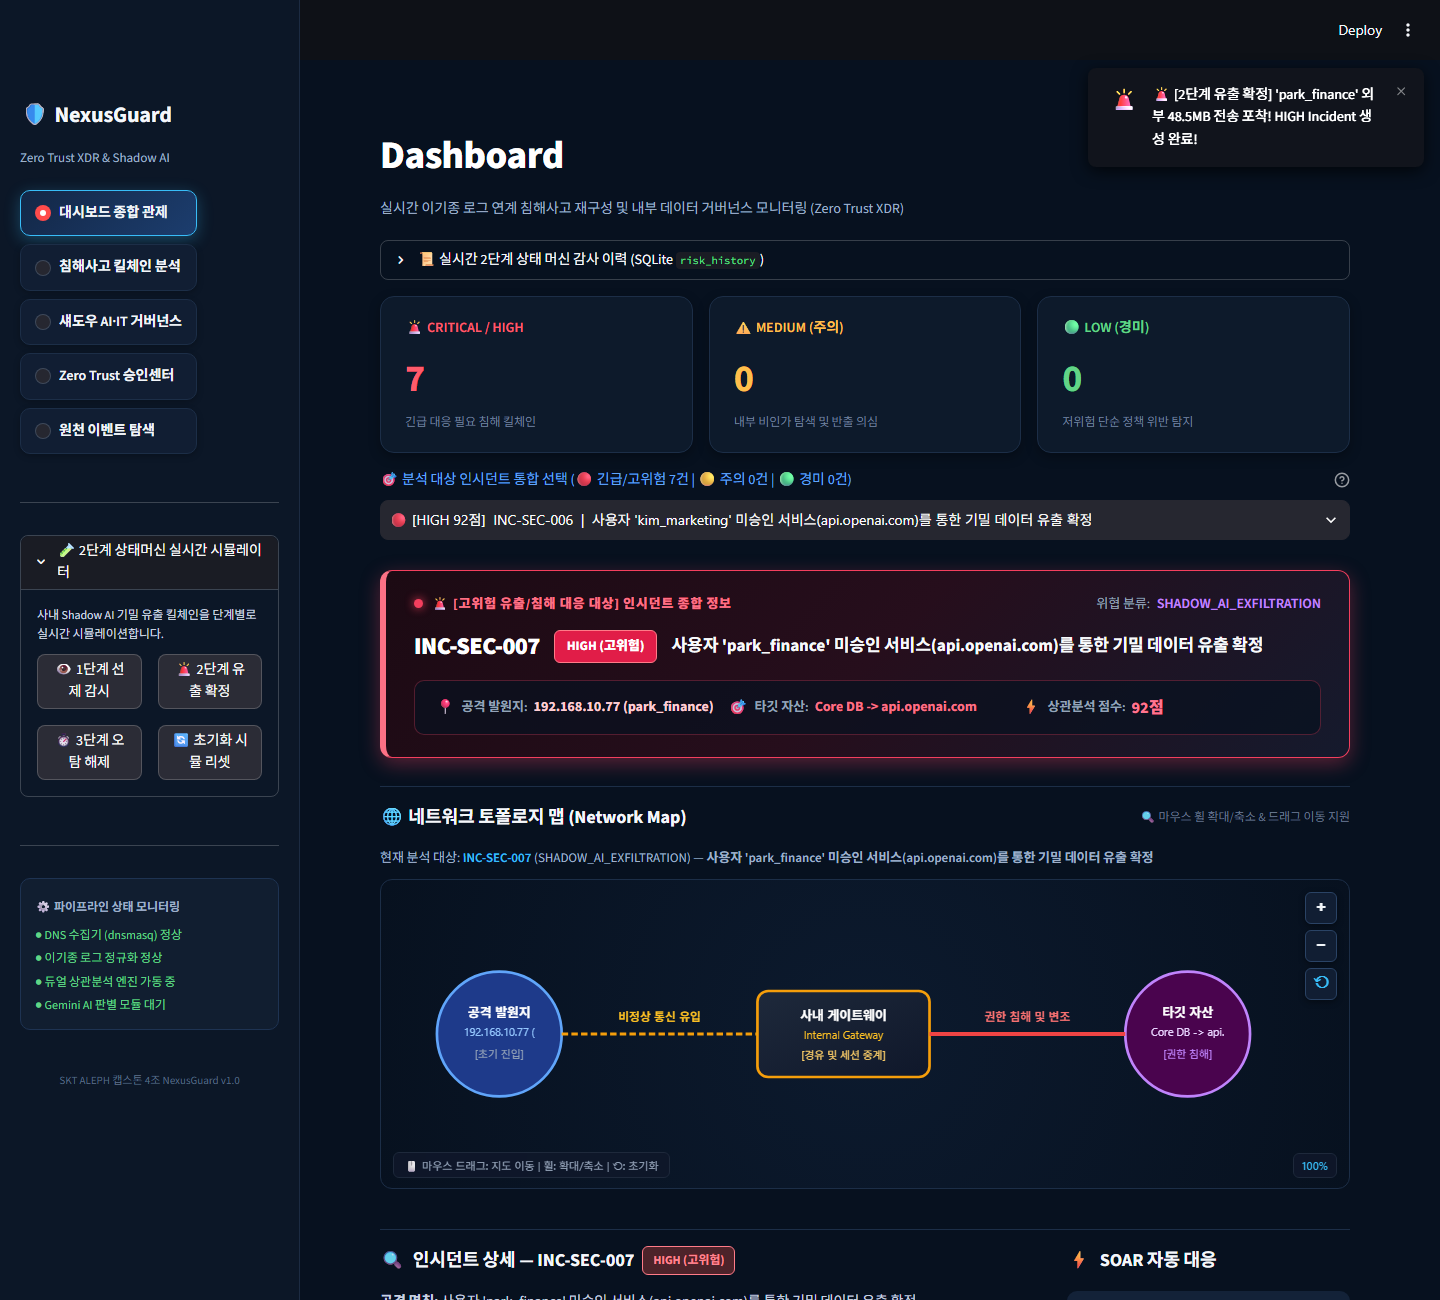
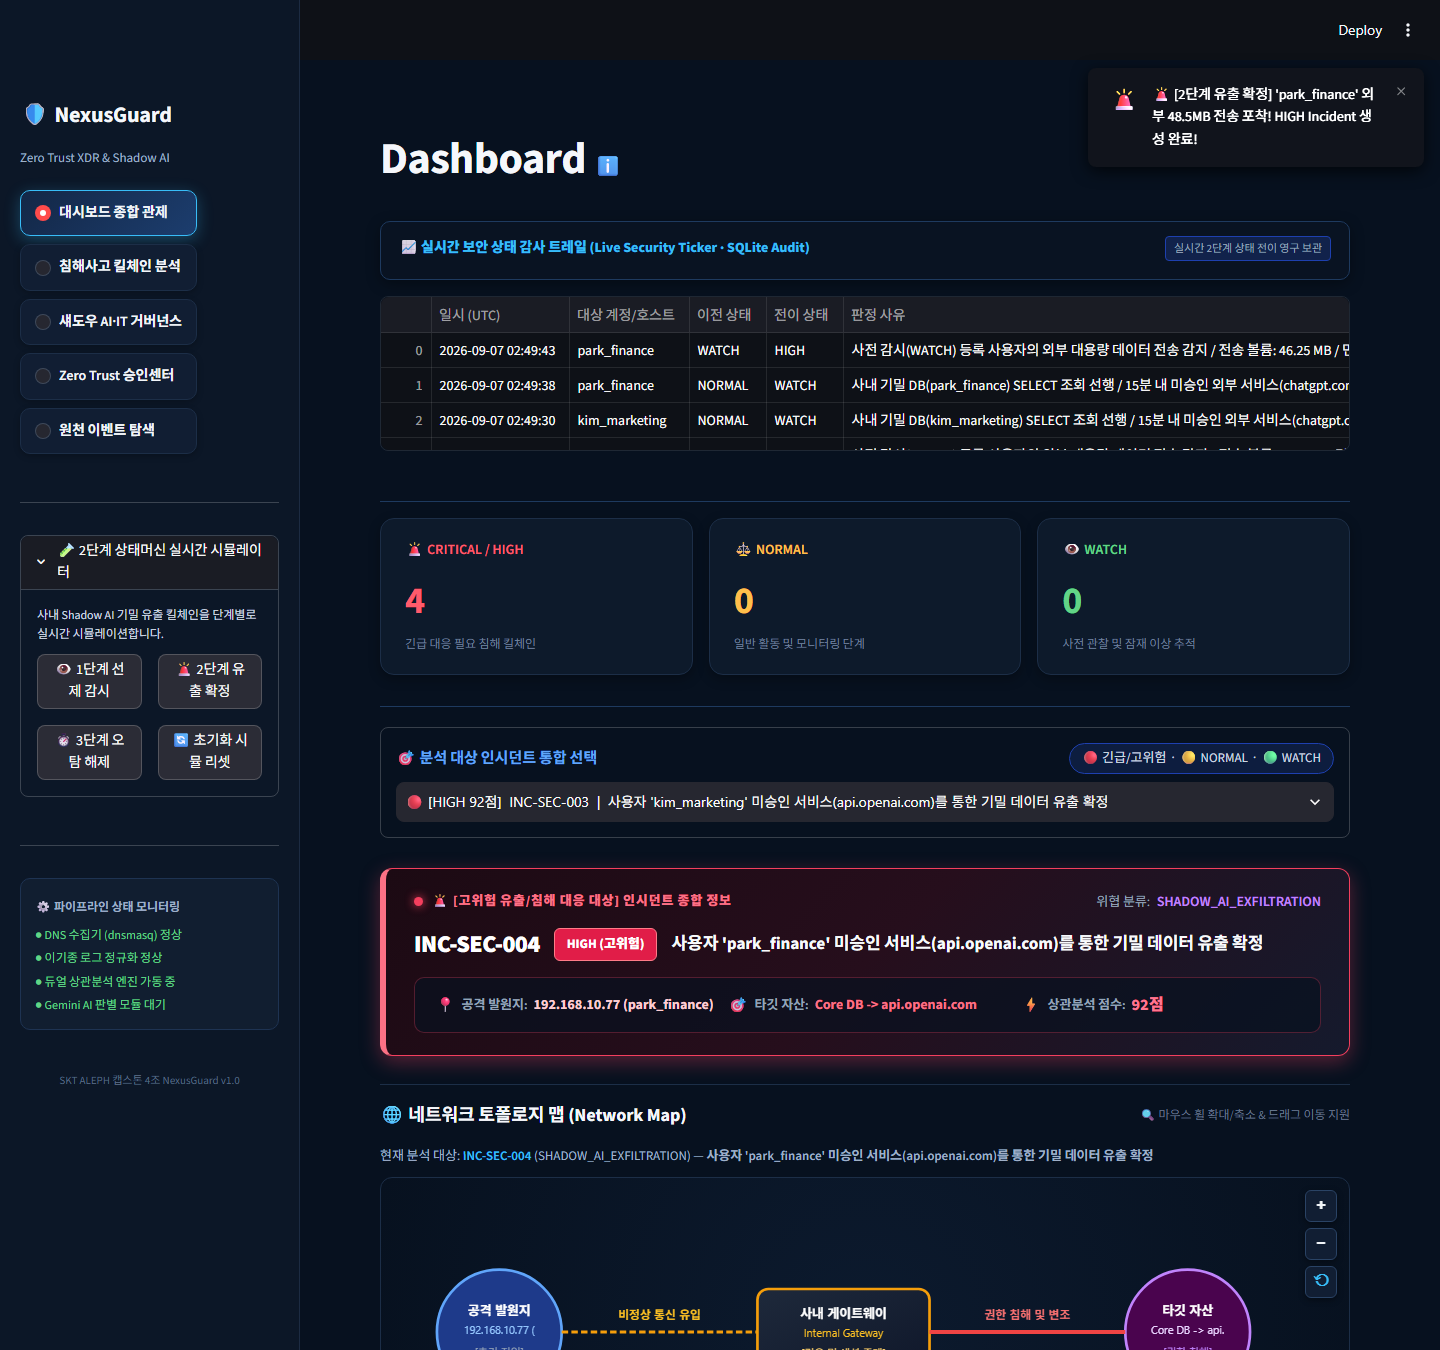
feat(ui): 대시보드 종합 관제 UI 개선 및 실시간 2단계 상태머신 감사 뷰 고도화
- 위험도 명칭 개편: LOW -> WATCH, MEDIUM -> NORMAL (KPI 카드 및 인시던트 배지 일괄 적용)
- KPI 상/하단 분계선(<hr>) 추가로 핵심 지표 영역 구분감 강화
- 통합 인시던트 선택기 단일 카드화(border=True) 및 건수 표시 제거 (색상 안내 가이드만 유지)
- 인시던트 선택 박스 세로 높이(64px) 및 가시성 확장, 불필요한 라벨 및 툴팁 잔상 제거
- Dashboard 제목에 마우스 오버 시에만 서브타이틀이 표출되는 인터랙티브 툴팁 적용
- SQLite 상태 머신 감사 이력(risk_history)을 주식창 스타일의 상시 노출 실시간 감사 트레일로 전환
- 신규 UI 기반 실시간 시뮬레이션 화면 캡처 업데이트

diff --git a/nexusguard/ui/app.py b/nexusguard/ui/app.py
@@ -218,13 +218,83 @@ st.markdown("""
         background-color: transparent !important;
         border: none !important;
     }
+    /* Dashboard 제목 호버 툴팁 */
+    .dashboard-title-box {
+        position: relative;
+        display: inline-block;
+        margin-bottom: 20px;
+        cursor: pointer;
+    }
+    .dashboard-title {
+        margin: 0;
+        font-size: 38px;
+        font-weight: 800;
+        color: #ffffff;
+        letter-spacing: -0.5px;
+        display: flex;
+        align-items: center;
+        gap: 10px;
+    }
+    .dashboard-info-icon {
+        font-size: 20px;
+        color: #64748b;
+        cursor: pointer;
+        transition: color 0.2s;
+    }
+    .dashboard-title-box:hover .dashboard-info-icon {
+        color: #38bdf8;
+    }
+    .dashboard-title-tooltip {
+        visibility: hidden;
+        opacity: 0;
+        position: absolute;
+        top: calc(100% + 6px);
+        left: 0;
+        background-color: #0c1c33;
+        color: #93c5fd;
+        font-size: 13px;
+        font-weight: 500;
+        padding: 8px 16px;
+        border-radius: 8px;
+        border: 1px solid #2563eb;
+        box-shadow: 0 10px 28px rgba(0, 0, 0, 0.8);
+        white-space: nowrap;
+        z-index: 9999;
+        transition: opacity 0.2s ease, visibility 0.2s ease;
+        pointer-events: none;
+    }
+    .dashboard-title-box:hover .dashboard-title-tooltip {
+        visibility: visible;
+        opacity: 1;
+    }
+
+    /* 통합 인시던트 선택기 단일 박스 컨테이너 */
+    div[data-testid="stVerticalBlockBorderWrapper"] {
+        background-color: #0c182a !important;
+        border: 1.5px solid #1c324e !important;
+        border-radius: 12px !important;
+        padding: 14px 20px 16px 20px !important;
+        box-shadow: 0 4px 16px rgba(0, 0, 0, 0.35) !important;
+        margin-bottom: 16px !important;
+    }
+    /* 통합 선택 박스 내부 불필요한 라벨 및 도움말 아이콘 완전 은닉 */
+    div[data-testid="stSelectbox"] label,
+    div[data-testid="stSelectbox"] [data-testid="stWidgetLabel"] {
+        display: none !important;
+        height: 0 !important;
+        margin: 0 !important;
+        padding: 0 !important;
+    }
+
+    /* 🌟 인시던트 선택 박스 세로 높이 확대 및 시인성 향상 */
     div[data-testid="stSelectbox"] div[data-baseweb="select"] > div {
-        min-height: 54px !important;
+        min-height: 64px !important;
+        height: 64px !important;
         background-color: #0b1a2e !important;
         border: 2px solid #3b82f6 !important;
         border-radius: 12px !important;
         box-shadow: 0 4px 16px rgba(37, 99, 235, 0.25) !important;
-        padding: 4px 14px !important;
+        padding: 6px 18px !important;
         display: flex !important;
         align-items: center !important;
         box-sizing: border-box !important;
@@ -239,8 +309,8 @@ st.markdown("""
     div[data-testid="stSelectbox"] div[data-baseweb="select"] [data-testid="stMarkdownContainer"] p,
     div[data-testid="stSelectbox"] div[data-baseweb="select"] span {
         color: #ffffff !important;
-        font-size: 15px !important;
-        font-weight: 600 !important;
+        font-size: 16px !important;
+        font-weight: 700 !important;
         line-height: 1.5 !important;
     }
     /* 우측 토글 화살표(Chevron): 박스 우측 내부에 완벽 고정 */
@@ -1268,9 +1338,13 @@ def render_interactive_map(svg_markup: str):
 
 if menu == "대시보드 종합 관제":
     st.markdown("""
-    <div style="margin-bottom: 20px;">
-        <h1 style="margin:0; font-size: 39px; font-weight: 800; color:#ffffff; letter-spacing: -0.5px;">Dashboard</h1>
-        <span style="color: #9fb0c8; font-size: 14px;">실시간 이기종 로그 연계 침해사고 재구성 및 내부 데이터 거버넌스 모니터링 (Zero Trust XDR)</span>
+    <div class="dashboard-title-box">
+        <h1 class="dashboard-title">
+            Dashboard <span class="dashboard-info-icon" title="마우스를 올리면 시스템 설명이 표시됩니다">ℹ</span>
+        </h1>
+        <div class="dashboard-title-tooltip">
+            🛡 실시간 이기종 로그 연계 침해사고 재구성 및 내부 데이터 거버넌스 모니터링 (Zero Trust XDR)
+        </div>
     </div>
     """, unsafe_allow_html=True)
 
@@ -1292,7 +1366,7 @@ if menu == "대시보드 종합 관제":
     )
     sorted_incident_ids = [inc.incident_id for inc in sorted_incidents]
 
-    # 🌟 [단일 통합 드롭다운 포맷터] 위험도별 색상 및 기호로 시인성 극대화
+    # 🌟 [단일 통합 드롭다운 포맷터] 위험도별 색상 및 기호로 시인성 극대화 (NORMAL / WATCH 적용)
     def format_unified_incident(inc_id: str) -> str:
         inc = ctx.correlation_engine.get_incident(inc_id)
         if not inc:
@@ -1302,9 +1376,9 @@ if menu == "대시보드 종합 관제":
         elif inc.severity == Severity.HIGH:
             badge = f"🔴 [HIGH {inc.score}점]"
         elif inc.severity == Severity.MEDIUM:
-            badge = f"🟡 [MEDIUM {inc.score}점]"
+            badge = f"🟡 [NORMAL {inc.score}점]"
         else:
-            badge = f"🟢 [LOW {inc.score}점]"
+            badge = f"🟢 [WATCH {inc.score}점]"
         return f"{badge}  {inc.incident_id}  |  {inc.title}"
 
     cur_idx = sorted_incident_ids.index(st.session_state.selected_incident_id) if st.session_state.selected_incident_id in sorted_incident_ids else 0
@@ -1334,17 +1408,32 @@ if menu == "대시보드 종합 관제":
         </div>
         """, unsafe_allow_html=True)
 
-    # 📜 실시간 2단계 상태 머신 감사 이력 (SQLite risk_history)
-    with st.expander("📜 실시간 2단계 상태 머신 감사 이력 (SQLite `risk_history`)", expanded=False):
-        hist = ctx.correlation_engine.store.get_risk_history(10)
-        if hist:
-            df_hist = pd.DataFrame(hist)[["at", "user", "from_state", "to_state", "reason"]]
-            df_hist.columns = ["일시 (UTC)", "대상자", "이전 상태", "전이 상태", "판정 사유"]
-            st.dataframe(df_hist, use_container_width=True)
-        else:
-            st.caption("아직 기록된 상태 전이 이력이 없습니다. 좌측 사이드바 시뮬레이터를 실행해보세요.")
+    # 📈 실시간 2단계 상태 머신 감사 이력 (주식창 스타일 항시 노출 뷰)
+    hist = ctx.correlation_engine.store.get_risk_history(10)
+    st.markdown("""
+    <div style="background: #091322; border: 1.5px solid #1e3a5f; border-radius: 10px; padding: 14px 18px 8px 18px; margin-bottom: 16px; box-shadow: 0 4px 14px rgba(0,0,0,0.35);">
+        <div style="display:flex; justify-content:space-between; align-items:center; margin-bottom: 10px;">
+            <span style="font-weight:800; font-size:14px; color:#38bdf8; display:flex; align-items:center; gap:6px;">
+                📈 실시간 보안 상태 감사 트레일 (Live Security Ticker · SQLite Audit)
+            </span>
+            <span style="font-size:11px; color:#94a3b8; background:rgba(30,58,138,0.4); padding:3px 8px; border-radius:4px; border:1px solid #1e40af;">실시간 2단계 상태 전이 영구 보관</span>
+        </div>
+    """, unsafe_allow_html=True)
+    if hist:
+        df_hist = pd.DataFrame(hist)[["at", "user", "from_state", "to_state", "reason"]]
+        df_hist.columns = ["일시 (UTC)", "대상 계정/호스트", "이전 상태", "전이 상태", "판정 사유"]
+        st.dataframe(df_hist, use_container_width=True, height=155)
+    else:
+        st.caption("💡 현재 기록된 상태 전이 이력이 없습니다. 좌측 사이드바 시뮬레이터를 통해 이벤트를 주입해보세요.")
+    st.markdown("</div>", unsafe_allow_html=True)
 
-    # 3대 위험도별 KPI 카드
+    # 🌟 [상단 분계선] 3대 KPI 카드 위 분계선
+    st.markdown('<hr style="border: 0; border-top: 1.5px solid #1e3a5f; margin: 18px 0 16px 0;">', unsafe_allow_html=True)
+
+    # 3대 위험도별 KPI 카드 (CRITICAL/HIGH, NORMAL, WATCH) - 실시간 2단계 상태 머신과 완벽 동기화
+    watch_count = len(active_watch) + len(low_ids)
+    normal_count = len([u for u in watch_users if u.get("state") == "NORMAL"]) + len(med_ids)
+
     kpi1, kpi2, kpi3 = st.columns(3)
 
     with kpi1:
@@ -1362,10 +1451,10 @@ if menu == "대시보드 종합 관제":
         st.markdown(f"""
         <div class="kpi-card">
             <div class="kpi-title medium-text">
-                {tooltip("⚠", "MEDIUM 주의 단계", "비인가 포트 스캔, 마이닝 풀 질의 등 정찰 행위 및 정책 위반 사항입니다.")} MEDIUM (주의)
+                {tooltip("⚖", "NORMAL 정상/주의", "일반 업무 활동 및 경미한 이상 징후 모니터링 단계입니다.")} NORMAL
             </div>
-            <div class="kpi-value medium-text">{len(med_ids)}</div>
-            <div class="kpi-sub">내부 비인가 탐색 및 반출 의심</div>
+            <div class="kpi-value medium-text">{normal_count}</div>
+            <div class="kpi-sub">일반 활동 및 모니터링 단계</div>
         </div>
         """, unsafe_allow_html=True)
 
@@ -1373,23 +1462,37 @@ if menu == "대시보드 종합 관제":
         st.markdown(f"""
         <div class="kpi-card">
             <div class="kpi-title low-text">
-                {tooltip("🟢", "LOW 경미 단계", "단순 정책 위반 또는 저위험 포트 스캔 탐지 사항입니다.")} LOW (경미)
+                {tooltip("👁", "WATCH 사전 관찰", "위험 행위 징후 포착에 따른 선제적 모니터링 추적 단계입니다.")} WATCH
             </div>
-            <div class="kpi-value low-text">{len(low_ids)}</div>
-            <div class="kpi-sub">저위험 단순 정책 위반 탐지</div>
+            <div class="kpi-value low-text">{watch_count}</div>
+            <div class="kpi-sub">사전 관찰 및 잠재 이상 추적</div>
         </div>
         """, unsafe_allow_html=True)
 
-    # 🌟 [단일 통합 드롭다운] 사용자 요청: 3분할 드롭다운을 1개로 통합하고 위험도별 색상과 기호로 가시성 극대화
-    st.selectbox(
-        f"🎯 분석 대상 인시던트 통합 선택 (🔴 긴급/고위험 {len(crit_high_ids)}건  |  🟡 주의 {len(med_ids)}건  |  🟢 경미 {len(low_ids)}건)",
-        options=sorted_incident_ids,
-        index=cur_idx,
-        format_func=format_unified_incident,
-        key="sel_unified_incident",
-        on_change=on_select_unified,
-        help="위험도별(🔴긴급/고위험 ➔ 🟡주의 ➔ 🟢경미)로 정렬된 통합 인시던트 목록입니다."
-    )
+    # 🌟 [하단 분계선] 3대 KPI 카드 아래 분계선
+    st.markdown('<hr style="border: 0; border-top: 1.5px solid #1e3a5f; margin: 16px 0 20px 0;">', unsafe_allow_html=True)
+
+    # 🌟 [단일 통합 카드 형식 인시던트 선택기] 건수 표시 제거, 색상 가이드만 유지, 단일 카드로 묶음
+    with st.container(border=True):
+        st.markdown("""
+        <div style="display:flex; justify-content:space-between; align-items:center; margin-bottom: 8px;">
+            <span style="font-weight:700; font-size:15px; color:#60a5fa; display:flex; align-items:center; gap:6px;">
+                🎯 분석 대상 인시던트 통합 선택
+            </span>
+            <span style="font-size:13px; color:#cbd5e1; background:rgba(30,58,138,0.3); padding:4px 12px; border-radius:20px; border:1px solid #1e40af;">
+                🔴 긴급/고위험 &nbsp;·&nbsp; 🟡 NORMAL &nbsp;·&nbsp; 🟢 WATCH
+            </span>
+        </div>
+        """, unsafe_allow_html=True)
+        st.selectbox(
+            "인시던트 목록",
+            options=sorted_incident_ids,
+            index=cur_idx,
+            format_func=format_unified_incident,
+            key="sel_unified_incident",
+            on_change=on_select_unified,
+            label_visibility="collapsed"
+        )
 
     # 선택된 분석 대상 인시던트 종합 정보 카드 (위험도별 동적 색상 및 테마 반영)
     selected_inc = ctx.correlation_engine.get_incident(st.session_state.selected_incident_id)
@@ -1432,9 +1535,9 @@ if menu == "대시보드 종합 관제":
             "glow": "rgba(245, 158, 11, 0.35)",
             "bg": "linear-gradient(135deg, #1c1507 0%, #261d0a 50%, #121927 100%)",
             "header_color": "#fbbf24",
-            "header_label": "⚠ [주의 단계 모니터링 대상] 인시던트 종합 정보",
+            "header_label": "⚠ [NORMAL 단계 모니터링 대상] 인시던트 종합 정보",
             "dot_glow": "#f59e0b",
-            "badge": '<span class="badge badge-medium" style="font-size:13px; padding:5px 12px; background:#d97706; color:#ffffff; font-weight:800; border-radius:6px;">MEDIUM (주의)</span>',
+            "badge": '<span class="badge badge-medium" style="font-size:13px; padding:5px 12px; background:#d97706; color:#ffffff; font-weight:800; border-radius:6px;">NORMAL</span>',
             "score_color": "#fbbf24",
             "actor_color": "#fde68a",
             "target_color": "#f59e0b",
@@ -1447,9 +1550,9 @@ if menu == "대시보드 종합 관제":
             "glow": "rgba(16, 185, 129, 0.35)",
             "bg": "linear-gradient(135deg, #091a13 0%, #0d261d 50%, #0d1927 100%)",
             "header_color": "#34d399",
-            "header_label": "🟢 [경미 단계 단순 정책 위반 탐지 대상] 인시던트 종합 정보",
+            "header_label": "🟢 [WATCH 단계 선제적 감시 대상] 인시던트 종합 정보",
             "dot_glow": "#10b981",
-            "badge": '<span class="badge badge-low" style="font-size:13px; padding:5px 12px; background:#059669; color:#ffffff; font-weight:800; border-radius:6px;">LOW (경미)</span>',
+            "badge": '<span class="badge badge-low" style="font-size:13px; padding:5px 12px; background:#059669; color:#ffffff; font-weight:800; border-radius:6px;">WATCH</span>',
             "score_color": "#34d399",
             "actor_color": "#a7f3d0",
             "target_color": "#10b981",
